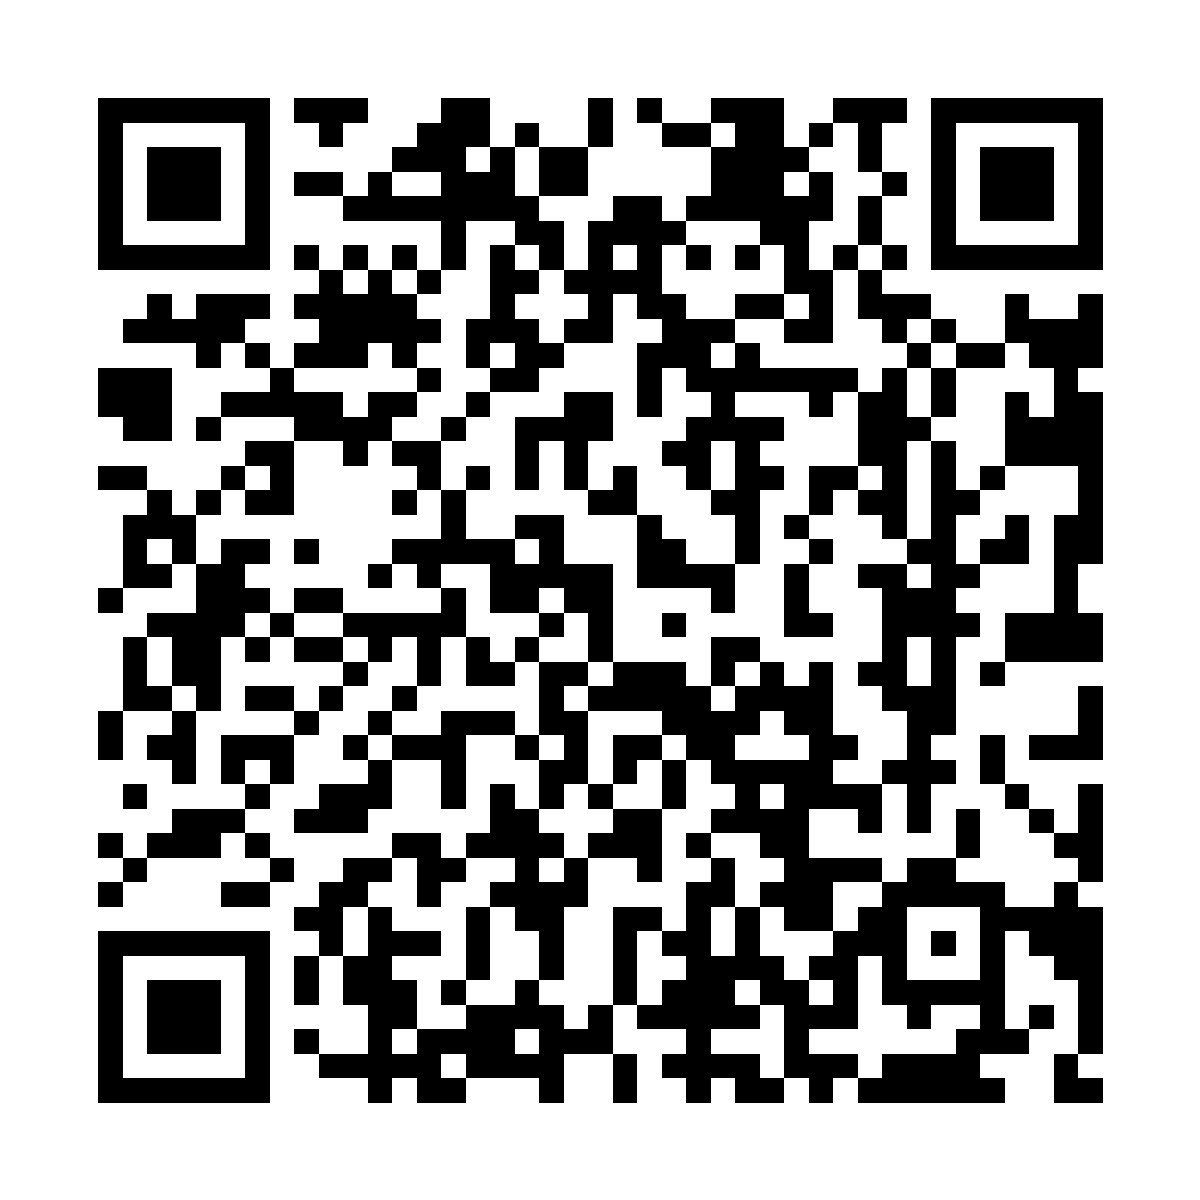
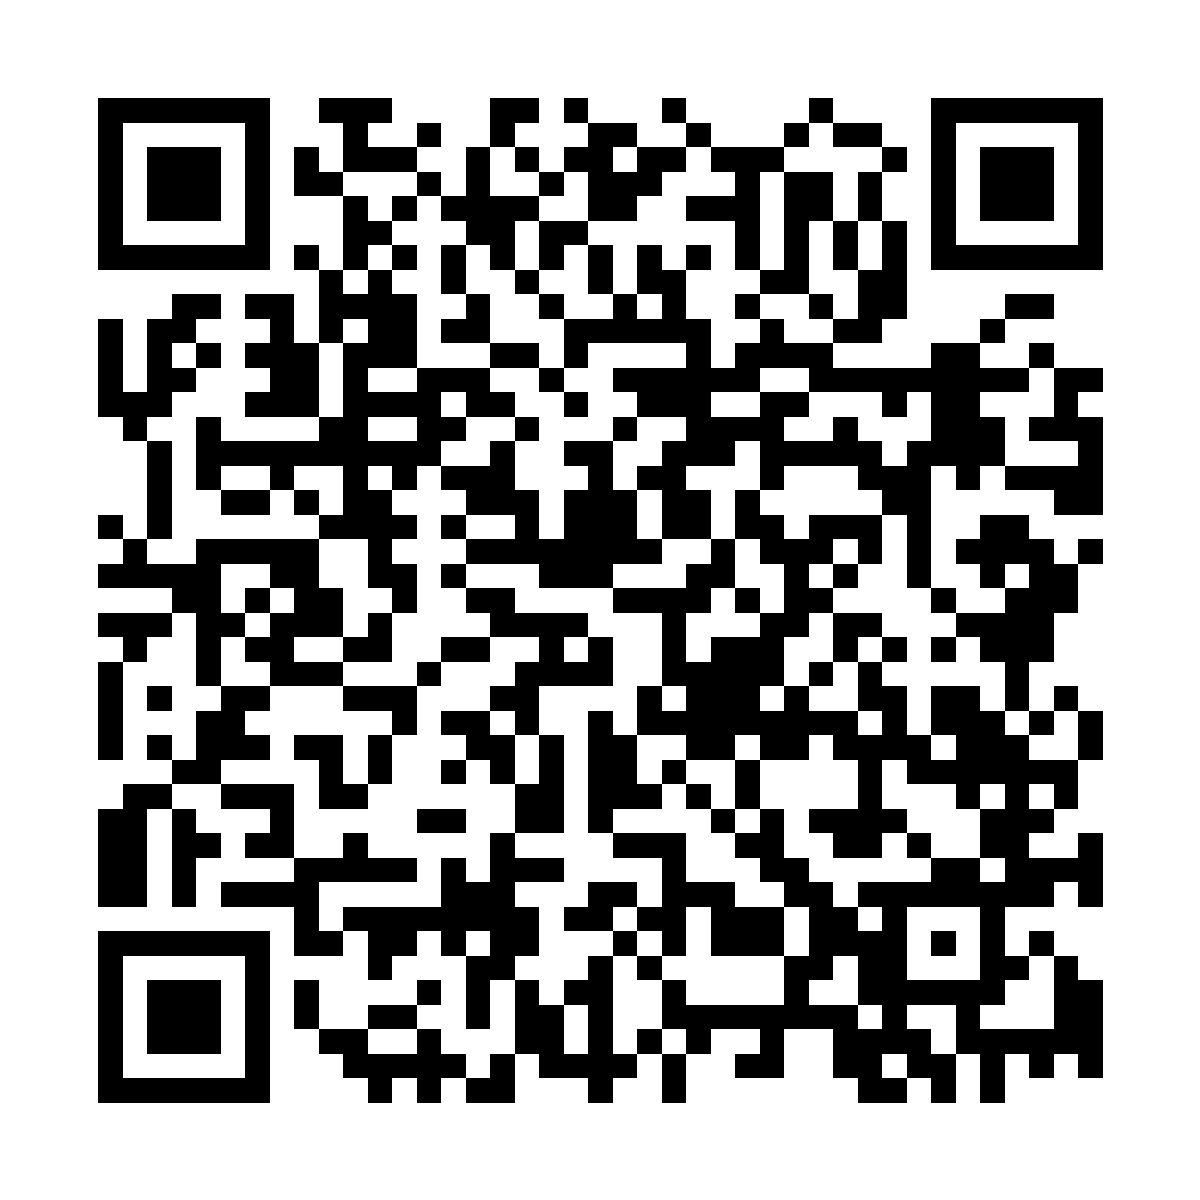
QR + README auf neue Org-URL aktualisiert

diff --git a/README.md b/README.md
@@ -4,7 +4,7 @@ Interaktive Karte für den Geschichtsunterricht: der Weg einer Familie aus
 Schlesien nach Bayern nach 1945. Ein konstruiertes, aber historisch belegtes
 Beispiel mit 6 Stationen. Per QR-Code auf dem Handy abrufbar.
 
-**Live:** https://jdeuerling.github.io/schlesien-migration/
+**Live:** https://schlesien-migration.github.io/schlesien-migration/
 
 ## Dateien
 - `index.html` — die komplette App (selbst-enthalten, nur Leaflet/CARTO + Google Fonts per CDN)
@@ -30,7 +30,7 @@ git add -A && git commit -m "update" && git push
 
 ## QR-Code neu erzeugen (falls URL sich ändert)
 ```bash
-npx qrcode -o qr-code.png -w 1200 -e H "https://jdeuerling.github.io/schlesien-migration/"
+npx qrcode -o qr-code.png -w 1200 -e H "https://schlesien-migration.github.io/schlesien-migration/"
 ```
 
 ## Quellen (historische Einordnung)
